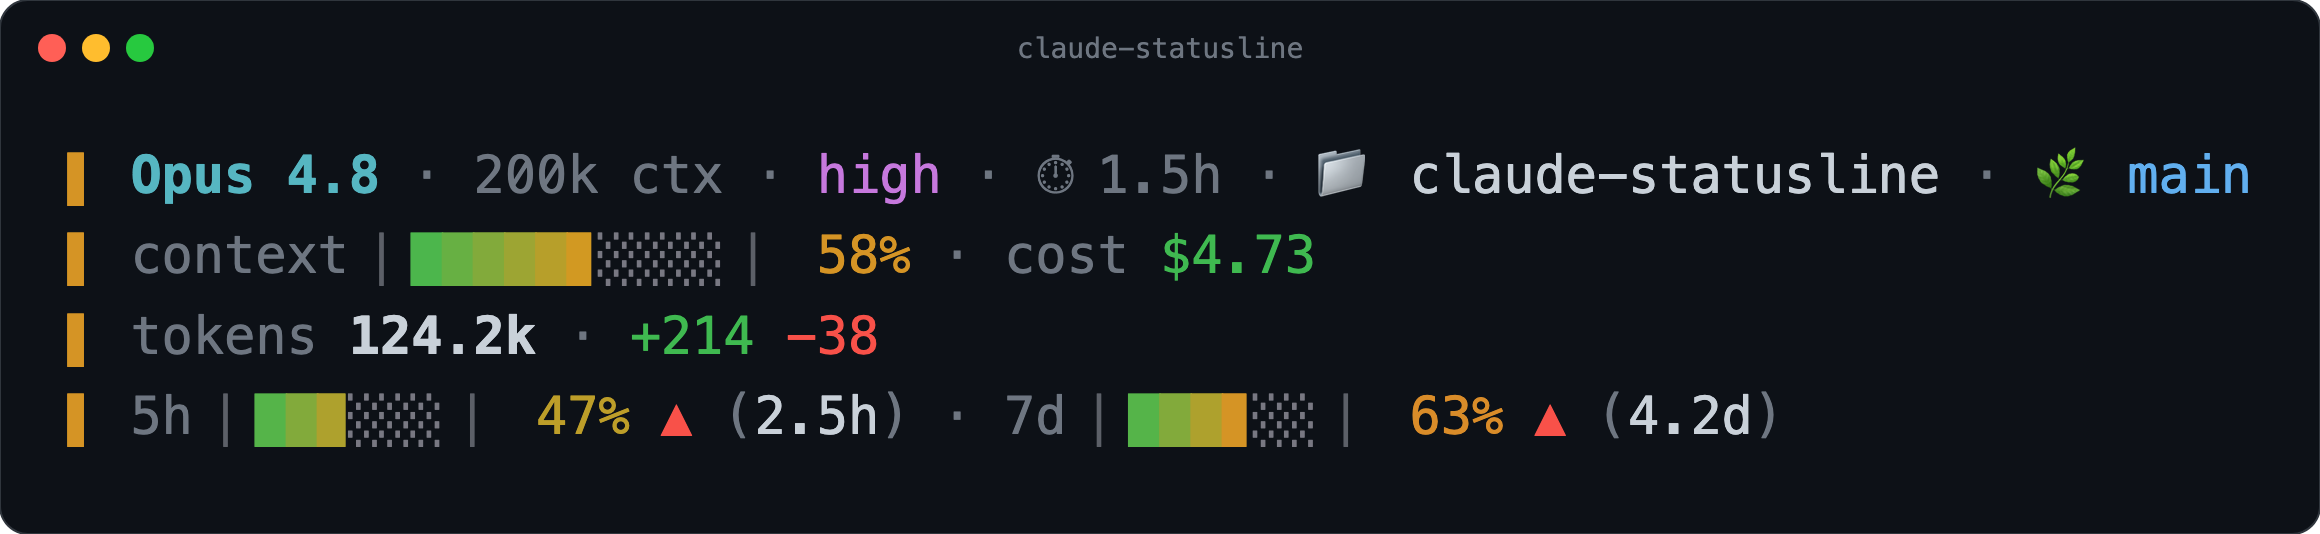
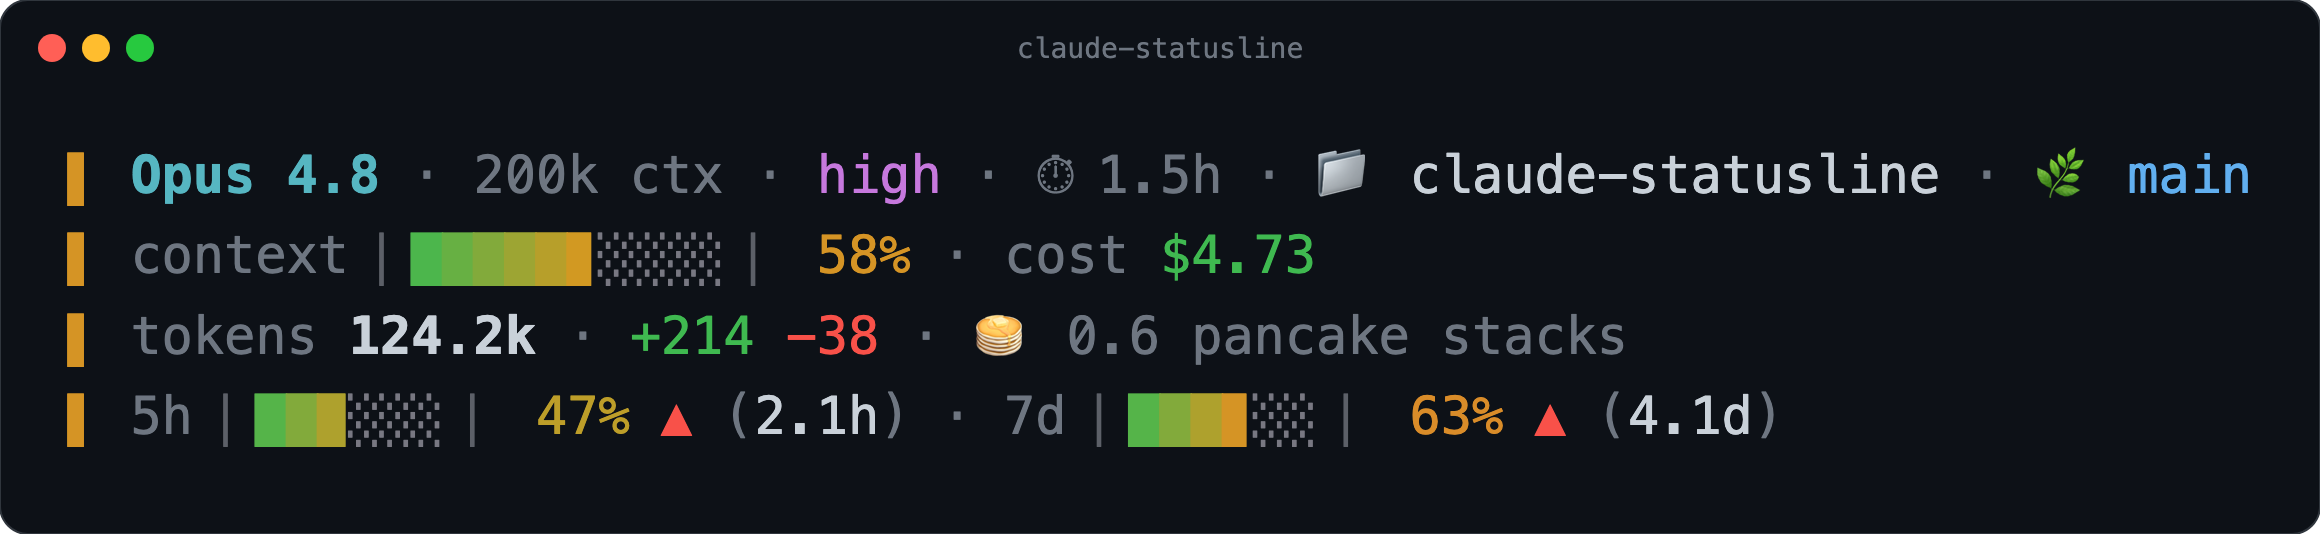
Add heating-up GIF, keep treat in lean preset, add CCSTATUS_DAILY_FILE
- README hero is now an animated GIF of context heating green to red
- lean preset keeps the fun cost treat (still killable with SHOW_TREAT=0)
- CCSTATUS_DAILY_FILE lets demos/tests use a throwaway daily counter

🤖 Generated with [Claude Code](https://claude.com/claude-code)

Changed region(s): [[0.4034, 0.5693, 0.7138, 0.6592], [0.7138, 0.7491, 0.7448, 0.809], [0.3414, 0.7491, 0.3724, 0.809]]

diff --git a/statusline.py b/statusline.py
@@ -127,7 +127,7 @@ STAGED, MODIFIED, UNTRACKED = inum(STAGED), inum(MODIFIED), inum(UNTRACKED)
 AHEAD, BEHIND = inum(AHEAD), inum(BEHIND)
 
 # ---------- cross-session "tokens today" counter ----------
-DAILY_FILE = os.path.expanduser('~/.claude/ccstatus-daily.txt')
+DAILY_FILE = env('CCSTATUS_DAILY_FILE') or os.path.expanduser('~/.claude/ccstatus-daily.txt')
 def daily_total(add=0):
     """Today's running new-token total across all sessions; add `add` first if >0."""
     today = time.strftime('%Y%m%d')
@@ -505,7 +505,8 @@ def compact():
 # progressive shedding: drop the least essential detail until it fits.
 # The preset sets the starting flag set; lean begins already stripped to the core.
 if LEAN:
-    FLAGS = dict(treat=0, burn=0, cache=0, breakdown=0, today=0, gauges=1, pr=0, gitcounts=0, runway=0)
+    # lean strips to the core but keeps the fun treat (toggle it off with SHOW_TREAT=0)
+    FLAGS = dict(treat=1, burn=0, cache=0, breakdown=0, today=0, gauges=1, pr=0, gitcounts=0, runway=0)
 else:   # full and words start with everything; words renders it in plain English
     FLAGS = dict(treat=1, burn=1, cache=1, breakdown=1, today=1, gauges=not WORDS, pr=1, gitcounts=1, runway=1)
 DROP_ORDER = ['treat', 'burn', 'breakdown', 'gauges', 'pr', 'gitcounts', 'today', 'cache', 'runway']

diff --git a/README.md b/README.md
@@ -2,7 +2,7 @@
 
 A frameless, information-dense status line for [Claude Code](https://claude.com/claude-code). One self-contained Python script, no dependencies, no Nerd Font required.
 
-![claude-statusline demo](demo.png)
+![claude-statusline heating up](demo.gif)
 
 It reads Claude Code's session JSON on stdin and renders four fixed rows: who and where you are, how full and costly the session is, how much it has worked, and how close you are to your usage limits.
 